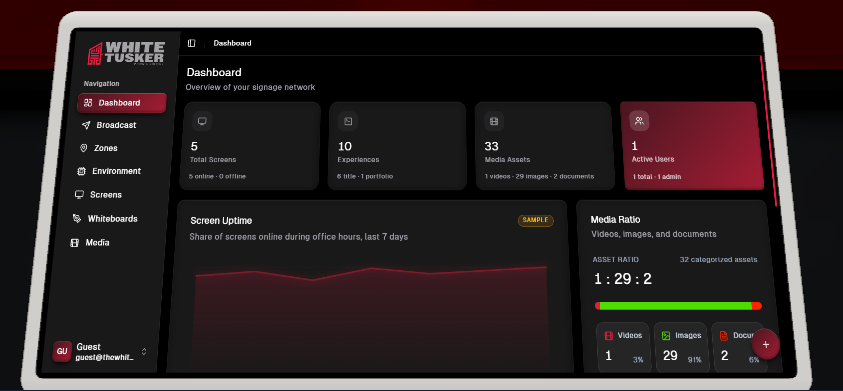
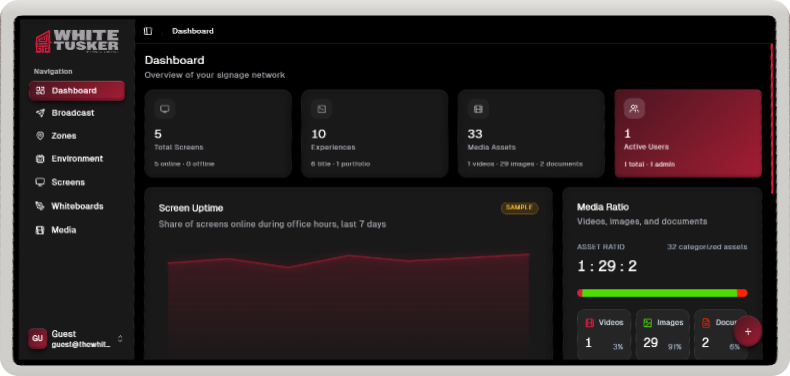
fix(nex): align monitor shape and wireframe contour with dashboard UI

diff --git a/src/components/NexExperienceWireframe.tsx b/src/components/NexExperienceWireframe.tsx
@@ -203,11 +203,11 @@ function buildNexExperienceWireframe(): WireframeScene {
   // 7. THE MONITOR IN FRONT OF THE VIEWER
   // Grounded prominently at the first floor horizontal line right before me
   // ==========================================
-  const tabW = 2.05;
-  const tabH = 0.951; // Exact ratio for white_tusker_kiosk_current.png
+  const tabW = 2.00;
+  const tabH = 2.00 / (790 / 376); // Exact 790x376 ratio (2.10106) => 0.9519
   const tabCenterZ = 0.58; // Grounded right at the starting first floor horizontal line
   const tabCenterY = 0.64; // Comfortably grounded in the foreground
-  const tiltAngle = 0.40;  // Natural drafting perspective tilt
+  const tiltAngle = 0.0;   // Upright monitor aligned with 3D camera and UI
 
   const getTabPoint = (localX: number, localY: number, localZ: number = 0): [number, number, number] => {
     const yRot = localY * Math.cos(tiltAngle) - localZ * Math.sin(tiltAngle);
@@ -219,7 +219,7 @@ function buildNexExperienceWireframe(): WireframeScene {
   const hh = tabH / 2;
 
   // Clean, Sleek Pedestal Stand (Clean single-column structural design)
-  const hingeY = tabCenterY;
+  const hingeY = tabCenterY + hh * 0.45;
   const hingeZ = tabCenterZ + 0.04;
   const hingeW = 0.14;
   const hingeH = 0.08;
@@ -284,7 +284,7 @@ export function NexExperienceWireframe() {
     let animId = 0;
 
     const dashboardImg = new Image();
-    dashboardImg.src = "/images/white_tusker_kiosk_current.png";
+    dashboardImg.src = "/images/white_tusker_kiosk_current.png?v=clean";
     let imgLoaded = false;
     dashboardImg.onload = () => { imgLoaded = true; };
 
@@ -576,13 +576,44 @@ export function NexExperienceWireframe() {
       );
 
       if (facePts.every((p) => p[3])) {
+        const p0: [number, number] = [facePts[0][0], facePts[0][1]];
+        const p1: [number, number] = [facePts[1][0], facePts[1][1]];
+        const p2: [number, number] = [facePts[2][0], facePts[2][1]];
+        const p3: [number, number] = [facePts[3][0], facePts[3][1]];
+
+        // Helper to trace the smooth rounded monitor chassis contour matching the UI bezel
+        const traceMonitorOutline = () => {
+          const rX = 0.023;
+          const rY = 0.048;
+
+          const p01_a: [number, number] = [p0[0] + (p1[0] - p0[0]) * rX, p0[1] + (p1[1] - p0[1]) * rX];
+          const p01_b: [number, number] = [p1[0] - (p1[0] - p0[0]) * rX, p1[1] - (p1[1] - p0[1]) * rX];
+
+          const p12_a: [number, number] = [p1[0] + (p2[0] - p1[0]) * rY, p1[1] + (p2[1] - p1[1]) * rY];
+          const p12_b: [number, number] = [p2[0] - (p2[0] - p1[0]) * rY, p2[1] - (p2[1] - p1[1]) * rY];
+
+          const p23_a: [number, number] = [p2[0] + (p3[0] - p2[0]) * rX, p2[1] + (p3[1] - p2[0]) * rX];
+          const p23_b: [number, number] = [p3[0] - (p3[0] - p2[0]) * rX, p3[1] - (p3[1] - p2[0]) * rX];
+
+          const p30_a: [number, number] = [p3[0] + (p0[0] - p3[0]) * rY, p3[1] + (p0[1] - p3[1]) * rY];
+          const p30_b: [number, number] = [p0[0] - (p0[0] - p3[0]) * rY, p0[1] - (p0[1] - p3[1]) * rY];
+
+          ctx.beginPath();
+          ctx.moveTo(p01_a[0], p01_a[1]);
+          ctx.lineTo(p01_b[0], p01_b[1]);
+          ctx.quadraticCurveTo(p1[0], p1[1], p12_a[0], p12_a[1]);
+          ctx.lineTo(p12_b[0], p12_b[1]);
+          ctx.quadraticCurveTo(p2[0], p2[1], p23_a[0], p23_a[1]);
+          ctx.lineTo(p23_b[0], p23_b[1]);
+          ctx.quadraticCurveTo(p3[0], p3[1], p30_a[0], p30_a[1]);
+          ctx.lineTo(p30_b[0], p30_b[1]);
+          ctx.quadraticCurveTo(p0[0], p0[1], p01_a[0], p01_a[1]);
+          ctx.closePath();
+        };
+
+        // Solid rounded occlusion mask
         ctx.save();
-        ctx.beginPath();
-        ctx.moveTo(facePts[0][0], facePts[0][1]);
-        for (let i = 1; i < facePts.length; i++) {
-          ctx.lineTo(facePts[i][0], facePts[i][1]);
-        }
-        ctx.closePath();
+        traceMonitorOutline();
         ctx.fillStyle = '#000000';
         ctx.shadowColor = 'rgba(0, 0, 0, 1)';
         ctx.shadowBlur = 35;
@@ -594,23 +625,14 @@ export function NexExperienceWireframe() {
         if (imgLoaded && dashboardImg.naturalWidth > 0) {
           const iw = dashboardImg.naturalWidth;
           const ih = dashboardImg.naturalHeight;
-          const p0: [number, number] = [facePts[0][0], facePts[0][1]];
-          const p1: [number, number] = [facePts[1][0], facePts[1][1]];
-          const p2: [number, number] = [facePts[2][0], facePts[2][1]];
-          const p3: [number, number] = [facePts[3][0], facePts[3][1]];
 
           drawTri(dashboardImg, p0, p1, p2, 0, 0, iw, 0, iw, ih);
           drawTri(dashboardImg, p0, p2, p3, 0, 0, iw, ih, 0, ih);
 
-          // Crisp Wireframe border around the front monitor screen
-          ctx.beginPath();
-          ctx.moveTo(p0[0], p0[1]);
-          ctx.lineTo(p1[0], p1[1]);
-          ctx.lineTo(p2[0], p2[1]);
-          ctx.lineTo(p3[0], p3[1]);
-          ctx.closePath();
-          ctx.lineWidth = 1.5;
-          ctx.strokeStyle = 'rgba(255, 255, 255, 0.95)';
+          // Sleek, perfectly aligned rounded wireframe bezel contour hugging the physical monitor
+          traceMonitorOutline();
+          ctx.lineWidth = 1.2;
+          ctx.strokeStyle = 'rgba(255, 255, 255, 0.9)';
           ctx.stroke();
         }
       }
